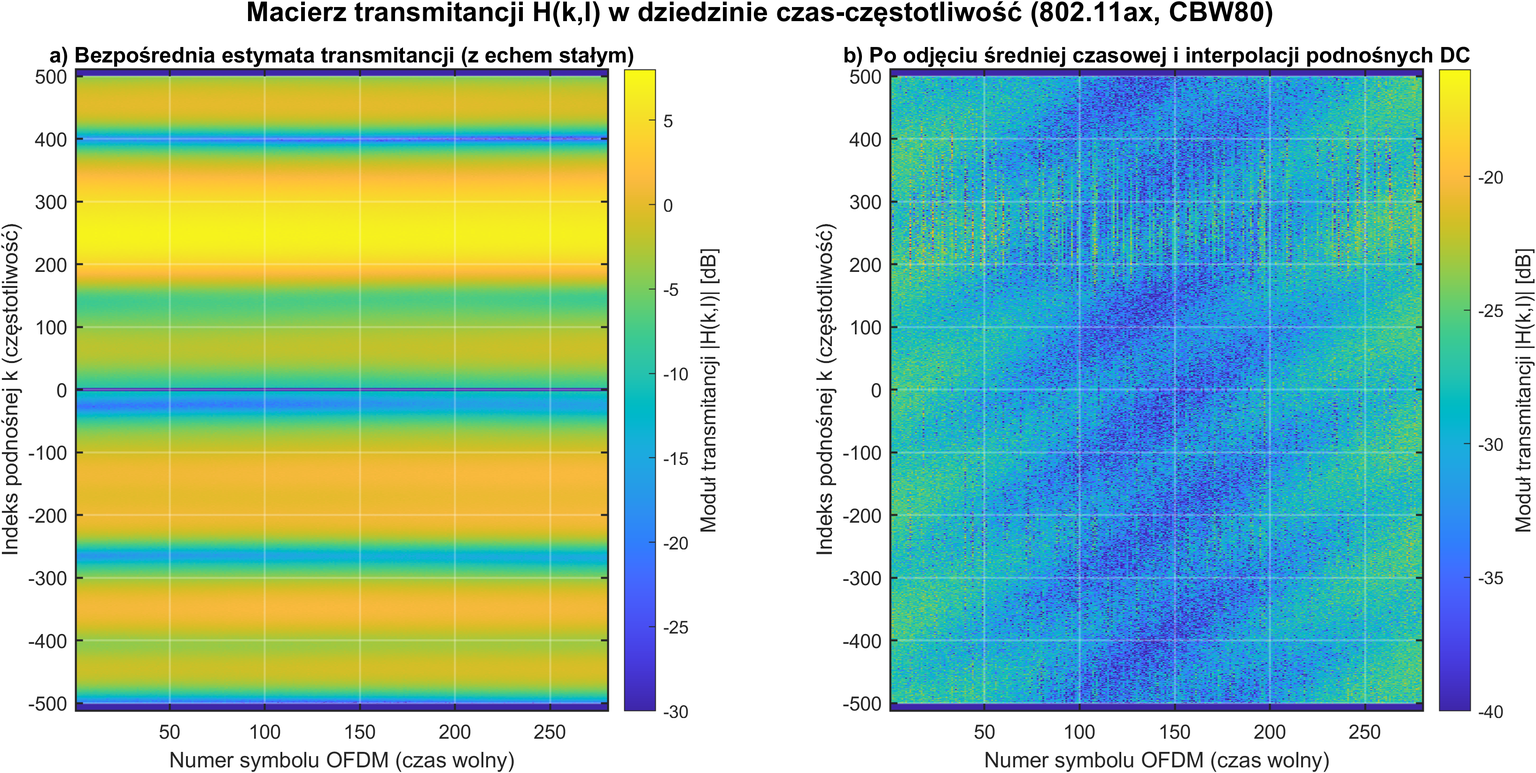
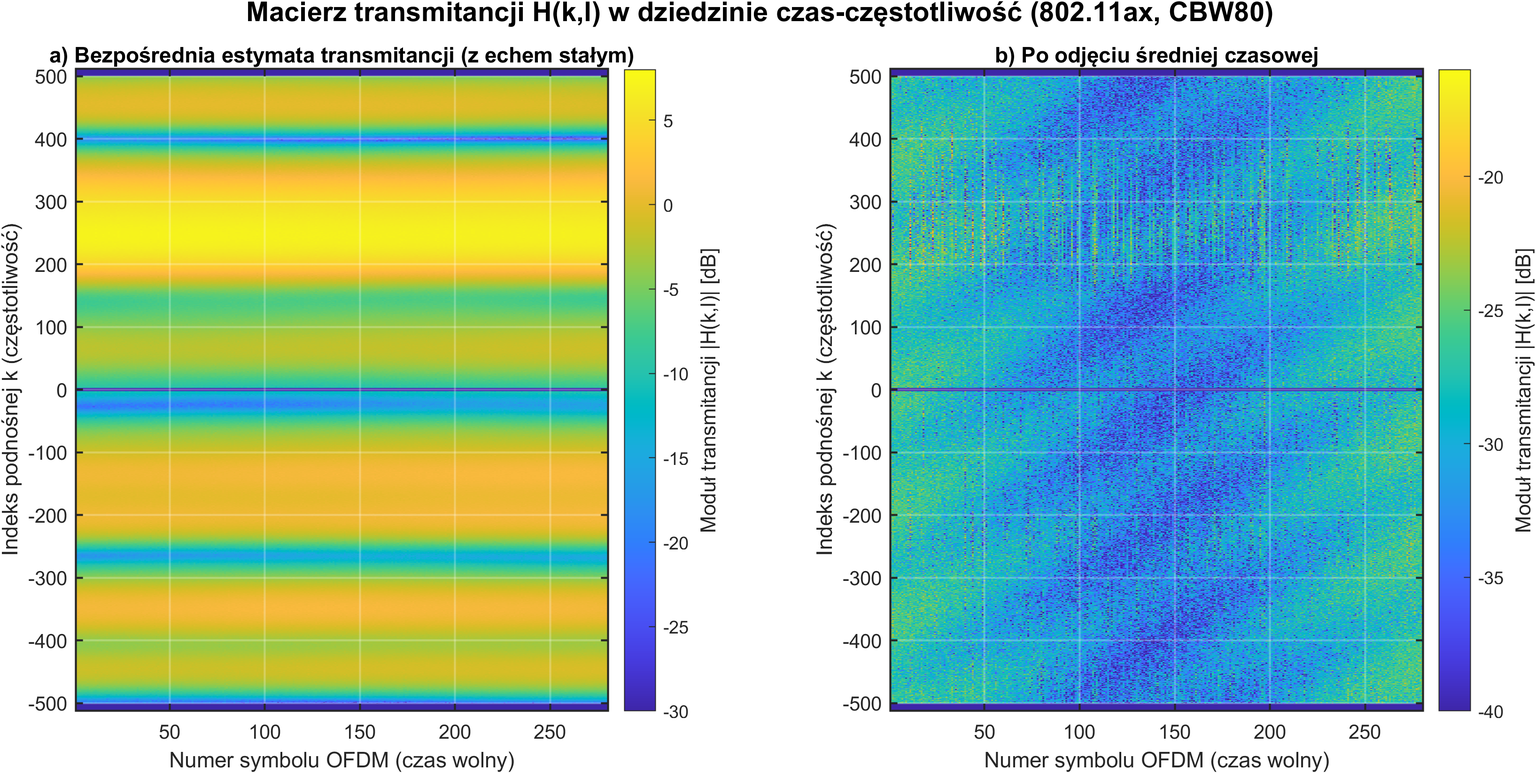
poprawka transmitancji

Changed region(s): [[0.5303, 0.062, 0.967, 0.093], [0.5927, 0.4957, 0.9046, 0.5267]]

diff --git a/scripts/figures/ch3_impl/gen_fig_3_1_channel_matrix_h.m b/scripts/figures/ch3_impl/gen_fig_3_1_channel_matrix_h.m
@@ -2,8 +2,8 @@ function fig = gen_fig_3_1_channel_matrix_h(show_figure, save_png)
 % GEN_FIG_3_1_CHANNEL_MATRIX_H
 % Experiment IMPL-1: Channel transfer matrix H(k,l) in the time-frequency domain.
 % Figure 3.1 for Chapter 3 of the thesis (IEEE 802.11ax, CBW80, TGax Model-C):
-%   (a) Direct channel estimate before static echo removal (showing DPI crosstalk, multipath fading, and DC gap)
-%   (b) Transfer matrix after static echo removal (slow-time mean subtraction) and linear DC interpolation
+%   (a) Direct channel estimate before static echo removal (showing DPI crosstalk and multipath fading)
+%   (b) Transfer matrix after static echo removal (slow-time mean subtraction)
 %
 % Output file: thesis/img/ch3_impl/rys_3_1_macierz_transmitancji_h.png
 
@@ -36,13 +36,13 @@ targets = [ ...
 
 radar_data = step3_receiver(rx_signal, waveform, fs, fc, params, [], [], intrinsic_delay);
 H_raw     = radar_data.H_raw;
-H_proc    = radar_data.H_shifted;
+H_proc    = radar_data.H_no_static;
 n_symbols = radar_data.n_symbols;
 Nfft      = radar_data.Nfft;
 
 % 3. Validate DPI and static clutter suppression at v = 0 m/s on the Range-Doppler map
-C_raw_rdm  = compute_range_doppler_map(interpolate_dc_nulls(H_raw, params.dc_indices), Nfft, n_symbols, params.active_mask, 4, true);
-C_proc_rdm = radar_data.CPer_F;
+C_raw_rdm  = compute_range_doppler_map(H_raw, Nfft, n_symbols, params.active_mask, 4, true);
+C_proc_rdm = compute_range_doppler_map(H_proc, Nfft, n_symbols, params.active_mask, 4, true);
 [~, v0_idx] = min(abs(radar_data.axis_velocity));
 p_v0_raw  = mean(abs(C_raw_rdm(:, v0_idx)).^2);
 p_v0_proc = mean(abs(C_proc_rdm(:, v0_idx)).^2);
@@ -88,7 +88,7 @@ set(gca, 'FontSize', 10, 'LineWidth', 1.0, 'Box', 'on');
 grid on; box on;
 set(gca, 'GridColor', [1 1 1], 'GridAlpha', 0.25);
 
-% Panel (b): Transfer matrix after slow-time mean subtraction and DC interpolation
+% Panel (b): Transfer matrix after slow-time mean subtraction
 subplot(1, 2, 2);
 imagesc(sym_axis, k_range, H_proc_dB);
 axis xy;
@@ -99,7 +99,7 @@ c2.Label.String = 'Moduł transmitancji |H(k,l)| [dB]';
 c2.Label.FontSize = 10.5;
 c2.Label.Interpreter = 'none';
 
-title('b) Po odjęciu średniej czasowej i interpolacji podnośnych DC', 'FontSize', 11.5, 'FontWeight', 'bold', 'Interpreter', 'none');
+title('b) Po odjęciu średniej czasowej', 'FontSize', 11.5, 'FontWeight', 'bold', 'Interpreter', 'none');
 xlabel('Numer symbolu OFDM (czas wolny)', 'FontSize', 11, 'Interpreter', 'none');
 ylabel('Indeks podnośnej k (częstotliwość)', 'FontSize', 11, 'Interpreter', 'none');
 set(gca, 'FontSize', 10, 'LineWidth', 1.0, 'Box', 'on');
